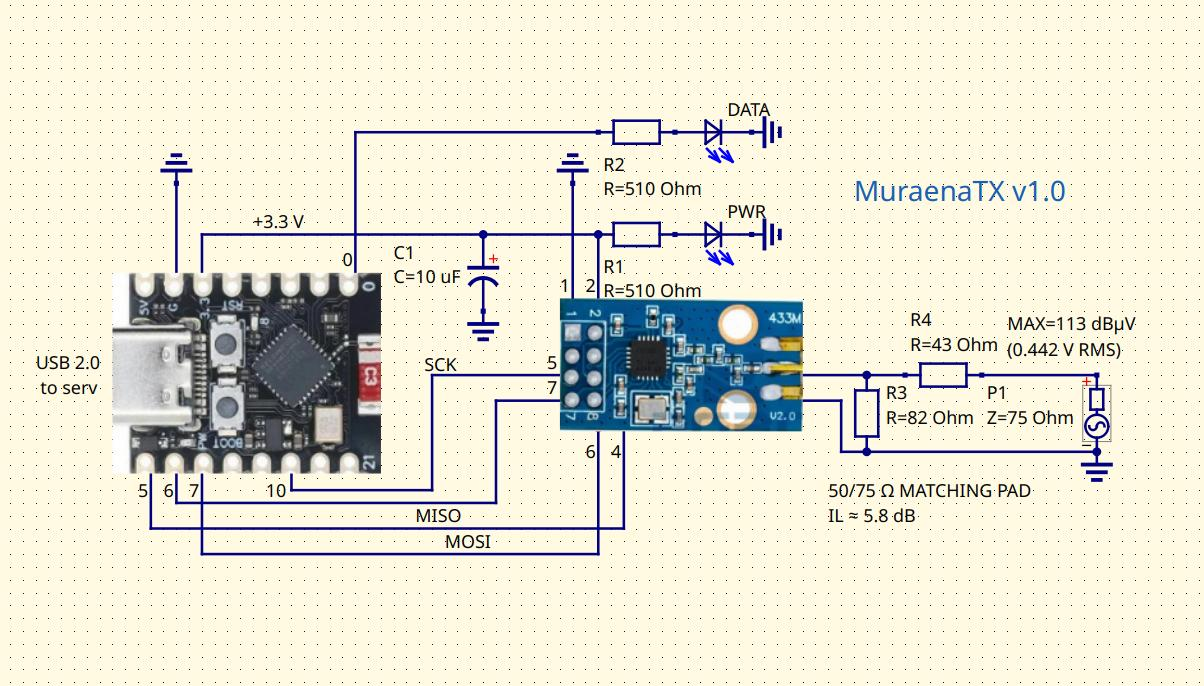
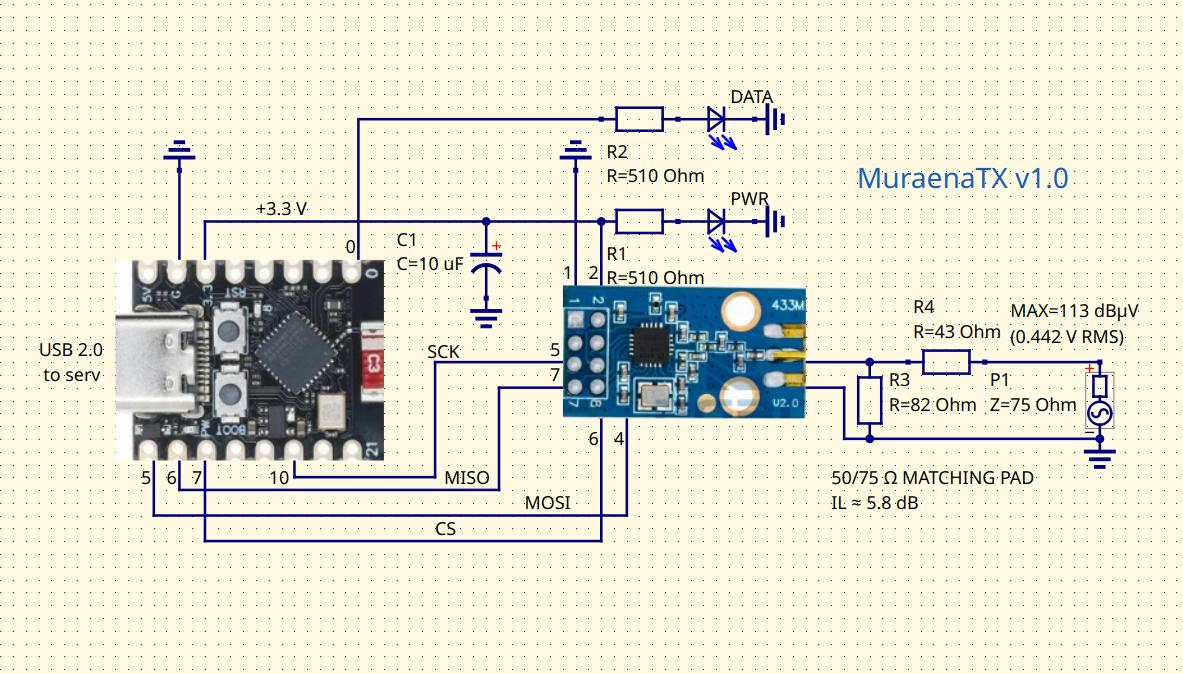
filling+

Changed region(s): [[0.0304, 0.1246, 0.9738, 0.8101], [0.6999, 0.2493, 0.9129, 0.3116]]

diff --git a/inc/i18n.php b/inc/i18n.php
@@ -214,7 +214,17 @@ return [
         [br][br]
         Конструктивно схема собрана на печатной плате, помещённой в алюминиевый корпус размерами 80x54x23 мм. [url=/sources/MuraenaTX/MuraenaTX.lay6]Печатную плату[/url] несложно изготовить самостоятельно [img=muraenatx_pcb.jpg]травлением[/img], фрезеровкой или собрать на макетной плате.
         ',
-        'The unit is based on an ESP32-C3 microcontroller and a CC1101 RF transceiver. Transmitter parameters and state are stored in non-volatile memory.',
+
+        'The unit is based on an [img=muraenatx_scheme.jpg]ESP32-C3 microcontroller and a CC1101 RF transceiver[/img]. The modules are connected via the SPI interface without using the additional GDO0 transmission-complete signal from the CC1101. In this configuration, the end of transmission is detected in software through the [code]MARCSTATE[/code] and [code]TXBYTES[/code] registers.
+        The transmitter parameters, its current state, and commands for the output modules are stored in NVS non-volatile memory.
+        The ESP32-C3 microcontroller is controlled through a virtual COM port created when the device is connected to the server: [code]/dev/ttyACM0[/code].
+        The serial port settings are 115200 baud, 8 data bits, no parity, and 1 stop bit. Commands are transmitted as text lines with space-separated fields and terminated by the newline character [code]\n[/code].[br][br]
+        The transmitter can be enabled or disabled in software, and its configured state is restored after a restart independently of the server state.
+        The transmitter can be controlled either through [url=/base]MuraenaBase[/url] using its WebUI and API, or through the specially [url=/sources/MuraenaCOM/muraenacom]developed[/url] [img=muraenacom.jpg]MuraenaCOM[/img] utility.
+        The transmitter output power is also software-adjustable over the range [code]P=0...100[/code], corresponding to approximately 73...113 dBµV at the unit output with a 75-ohm load connected.
+        [br][br]
+        The circuit is assembled on a printed circuit board installed in an aluminium enclosure measuring 80x54x23 mm. The [url=/sources/MuraenaTX/MuraenaTX.lay6]printed circuit board[/url] can be manufactured relatively easily by [img=muraenatx_pcb.jpg]etching[/img], milling, or by assembling the circuit on a prototyping board.
+        ',
     ],
 
     'tx.operation_title' => [
